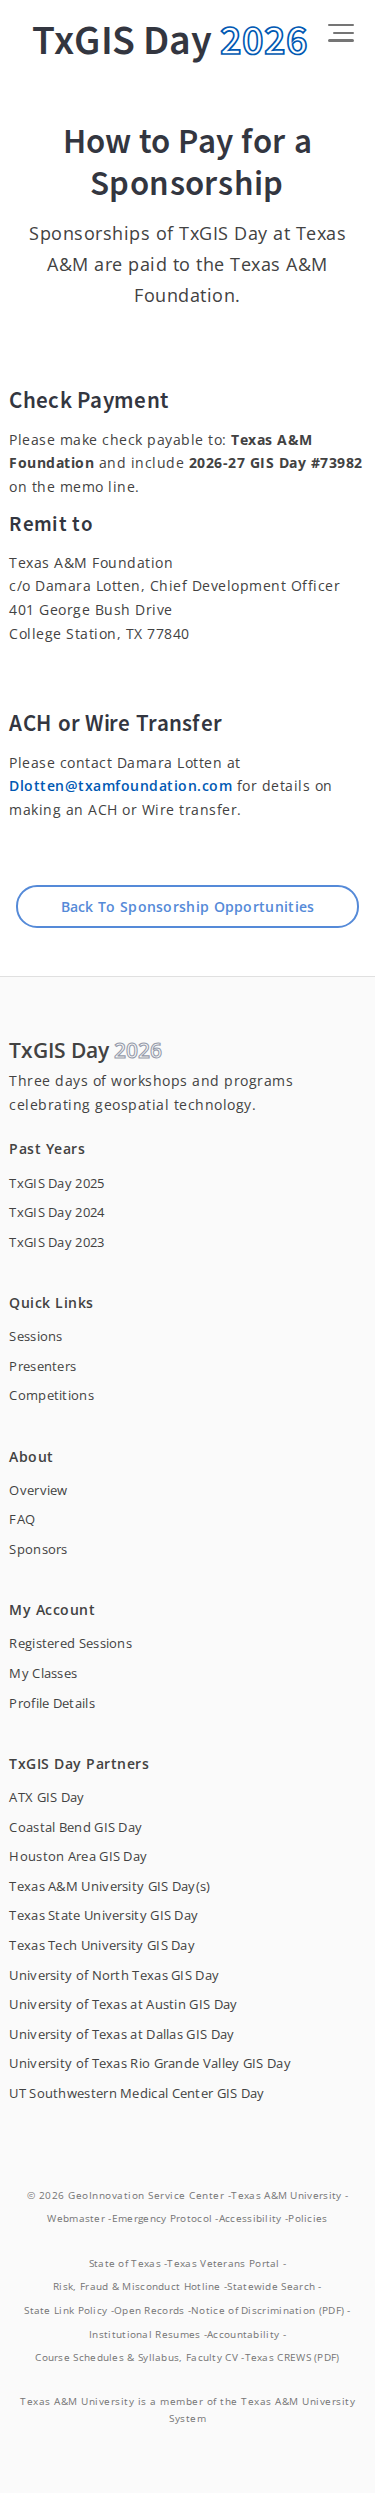
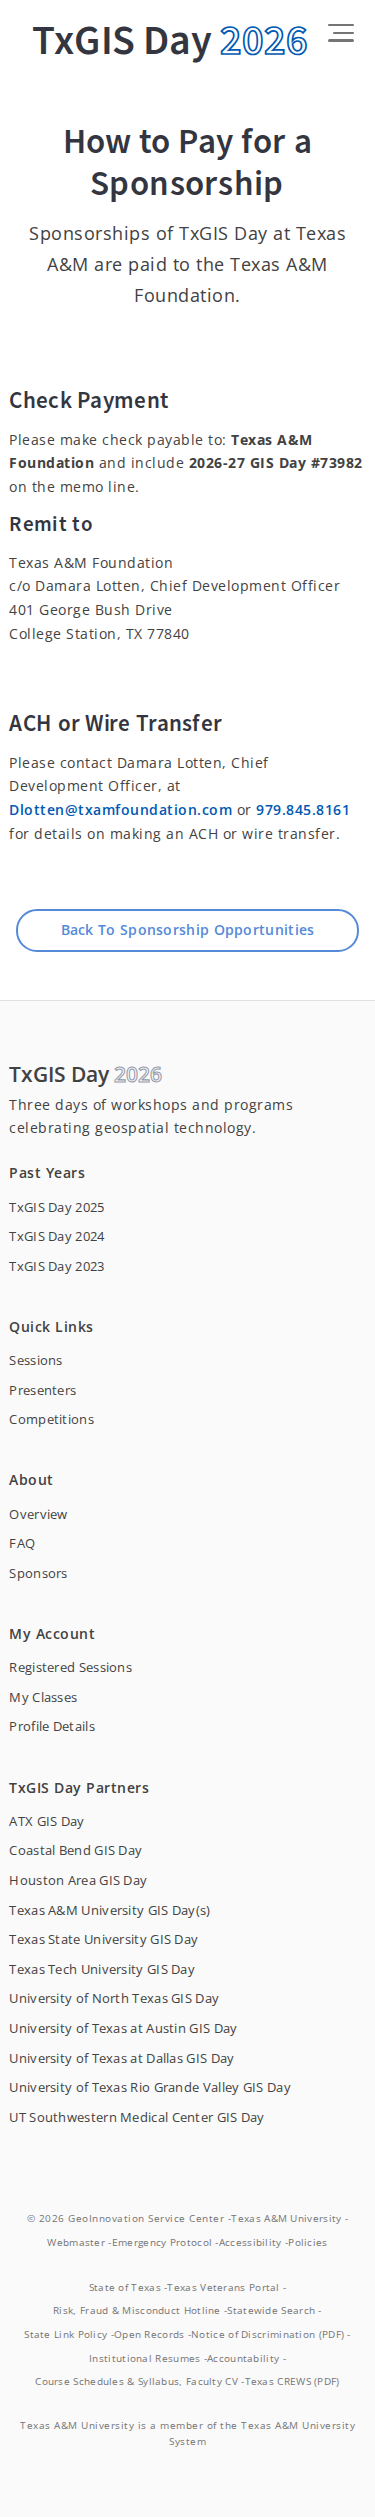
feat(gisday-platform-ngx-core): Give Damara Lotten's title and phone number for ACH and wire transfers
Matches the wording in the sponsorship prospectus.

Refs #1829

diff --git a/libs/gisday/platform/ngx/core/src/lib/pages/sponsors/sponsors-payment/sponsors-payment.component.html b/libs/gisday/platform/ngx/core/src/lib/pages/sponsors/sponsors-payment/sponsors-payment.component.html
@@ -23,7 +23,7 @@
 
       <div class="trailer-4" id="ach-wire">
         <h2 class="trailer-1">ACH or Wire Transfer</h2>
-        <p>Please contact Damara Lotten at <a href="mailto:Dlotten@txamfoundation.com">Dlotten&#64;txamfoundation.com</a> for details on making an ACH or Wire transfer.</p>
+        <p>Please contact Damara Lotten, Chief Development Officer, at <a href="mailto:Dlotten@txamfoundation.com">Dlotten&#64;txamfoundation.com</a> or <a href="tel:+19798458161">979.845.8161</a> for details on making an ACH or wire transfer.</p>
       </div>
 
       <div class="cta-links">
